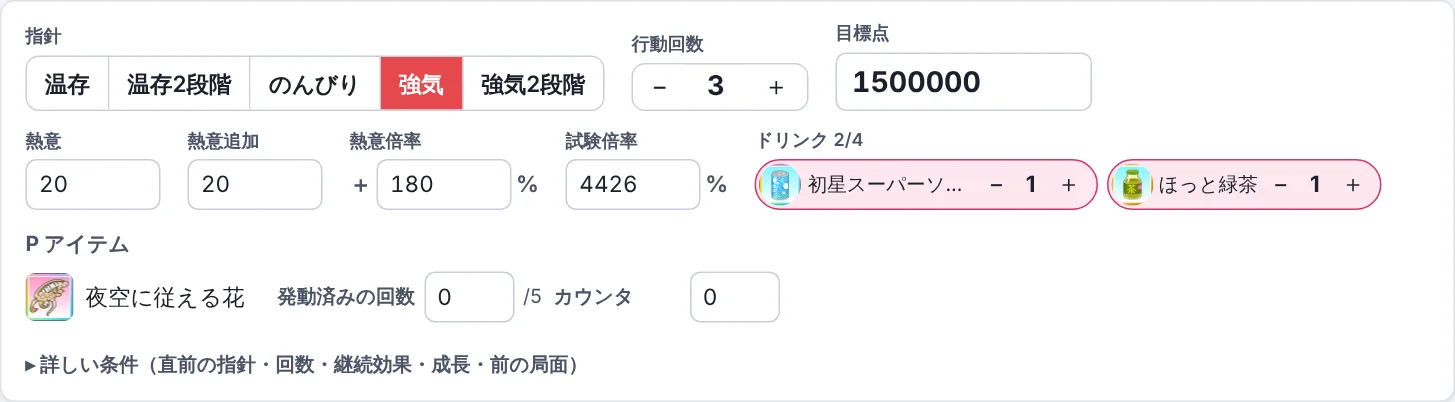
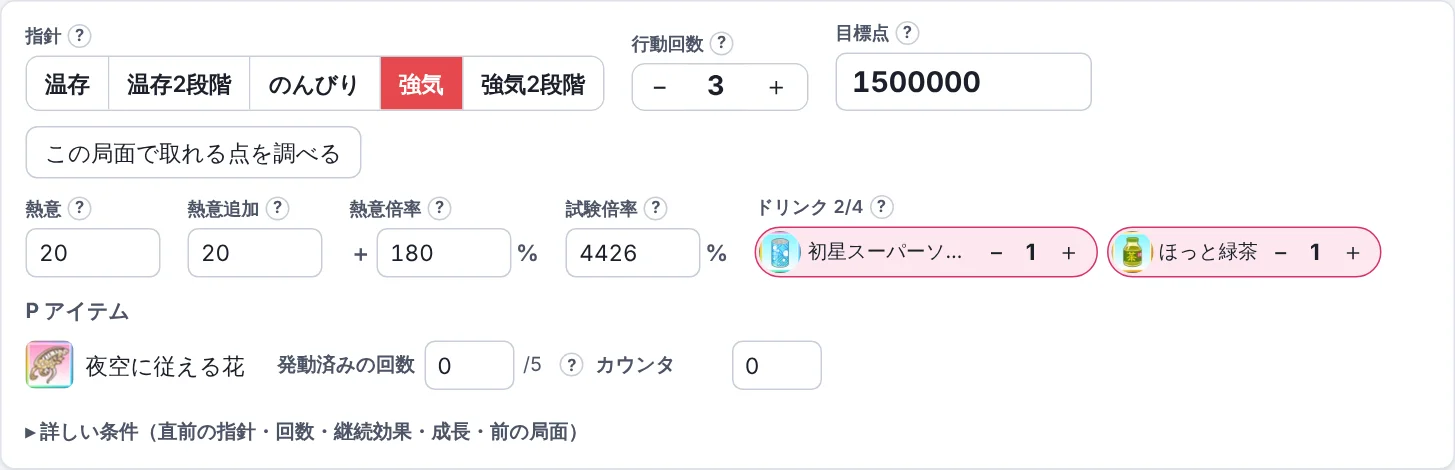
Solitaire Lab 1.6.0

diff --git a/js/turn.js b/js/turn.js
@@ -3,12 +3,16 @@
 import {D, search, itemInputs, staminaTriggered, hifSharedLimit} from './data.js';
 import {firedOf} from './setup.js';
 import {S, save, uid, deck, newPhase, STANCES} from './store.js';
-import {h, pic, cardTile, popover, num, sel, toast} from './ui.js';
+import {h, pic, cardTile, popover, num, sel, toast, qtip} from './ui.js';
 import {ensurePhase, entries, zoneOf, growthOf, extraGrowth, setAssume, ZONES, ZNAME, MAX_DRINKS, growthBulk} from './phase.js';
 import {renderAnswer, isStale} from './answer.js';
 import {renderSteps} from './steps.js';
+import {currentSetup} from './run.js';
+import {startTargetTable, cancelTargetTable} from './solver.js';
 
 let showMore = false;
+// この局面で取れる点（目標点を決める手がかり）。sig＝調べた局面（目標点を除く）の印。局面を変えたら古い値と分かるように
+let TT = {running: false, result: null, error: null, sig: null, started: 0, showCurve: false}, ttRerender = () => {};
 
 export function renderTurn(root, rerender) {
   const dk = deck();
@@ -70,25 +74,38 @@ export function renderTurn(root, rerender) {
 
   // ---- 上部の数値の欄（ゲームの画面の上のほうにあるもの）----
   const setp = k => v => { p[k] = v; touch(); };
-  const stepper = (label, k, {min = 0, max = 99} = {}) => h('div.stepper', {}, h('span.sl', label),
+  const stepper = (label, k, {min = 0, max = 99, tip = ''} = {}) => h('div.stepper', {}, h('span.sl', label, tip && qtip(tip)),
     h('div.sb', {}, h('button', {disabled: p[k] <= min, onclick: () => { p[k] = Math.max(min, (p[k] || 0) - 1); touch(); }}, '−'),
       h('b', p[k] ?? 0), h('button', {disabled: p[k] >= max, onclick: () => { p[k] = Math.min(max, (p[k] || 0) + 1); touch(); }}, '＋')));
   // pct：画面では％で入れ、保存と計算は倍率のまま（例：試験倍率 4426% ⇔ 44.26）
   // plus：ゲームの表示と同じ「＋何%」（増える分）で入れる（例：熱意倍率 ＋180% ⇔ ×2.8）
   const toView = (v, {pct, plus}) => v === null || v === undefined ? '' : plus ? +((v - 1) * 100).toFixed(4) : pct ? +(v * 100).toFixed(4) : v;
   const fromView = (x, {pct, plus}) => x === '' ? null : plus ? 1 + Number(x) / 100 : pct ? Number(x) / 100 : Number(x);
-  const field = (label, k, {step = 1, width = 6, cls = '', pct = false, plus = false} = {}) => h('label.hf', {class: cls}, h('span.sl', label),
+  const field = (label, k, {step = 1, width = 6, cls = '', pct = false, plus = false, tip = ''} = {}) => h('label.hf', {class: cls}, h('span.sl', label, tip && qtip(tip)),
     h('span.unitwrap', {}, plus && h('span.unit', '＋'), h('input', {type: 'number', step, value: toView(p[k], {pct, plus}), style: {width: width + 'em'},
       onchange: e => setp(k)(fromView(e.target.value, {pct, plus}))}), (pct || plus) && h('span.unit', '%')));
   const drinkCount = id => P.drinksHeld.filter(x => x === id).length;
   const hud = h('section.panel.hud', {},
     h('div.hudrow', {},
-      h('div.stances', {}, h('span.sl', '指針'), h('div.seg', {}, STANCES.map(([v, t]) => h('button', {class: 'st ' + v + (p.stance === v ? ' on' : ''), onclick: () => setp('stance')(v)}, t)))),
-      stepper('行動回数', 'cardUses', {min: 1, max: 20}),
-      field('目標点', 'target', {width: 9, cls: 'big'})),
+      h('div.stances', {}, h('span.sl', '指針', qtip('ゲームの画面の、今の指針。温存・強気の「2段階」は、指針の段階が2のとき')), h('div.seg', {}, STANCES.map(([v, t]) => h('button', {class: 'st ' + v + (p.stance === v ? ' on' : ''), onclick: () => setp('stance')(v)}, t)))),
+      stepper('行動回数', 'cardUses', {min: 1, max: 20, tip: 'このターンに、まだ札を使える回数（ゲームの画面のスキルカード使用数）'}),
+      field('目標点', 'target', {width: 9, cls: 'big', tip: 'このターンで届かせたい点数。プレイの途中から作った局面では、それまでに入った点を引いた値'}),
+      h('div.ttbtn', {}, TT.running
+        ? h('button', {onclick: () => { cancelTargetTable(); TT = {...TT, running: false, error: '中止しました'}; rerender(); }}, `取れる点を調べています…（${Math.round((Date.now() - TT.started) / 1000)}秒）中止`)
+        : h('button', {title: 'この局面で、確率100%で届く最大の点・50%で届く最大の点・最大の点を調べます（重い局面で十数秒）', onclick: () => {
+            let s; try { s = currentSetup(); } catch (e) { TT = {...TT, error: '局面を読み込めません：' + e.message}; rerender(); return; }
+            TT = {running: true, result: null, error: null, sig: JSON.stringify(s.setup), started: Date.now(), showCurve: false}; ttRerender = rerender; rerender();
+            const tick = setInterval(() => { if (!TT.running) clearInterval(tick); else ttRerender(); }, 1000);
+            startTargetTable({setup: s.setup, calcSettings: S.calcSettings}, {
+              done: r => { TT = {...TT, running: false, result: r}; ttRerender(); },
+              error: m => { TT = {...TT, running: false, error: m}; ttRerender(); }});
+          }}, 'この局面で取れる点を調べる'))),
+    targetBox(),
     h('div.hudrow', {},
-      field('熱意', 'enthusiasm'), field('熱意追加', 'enthusiasmBonus'), field('熱意倍率', 'enthusiasmBuff', {step: 10, plus: true}), field('試験倍率', 'trial', {step: 1, pct: true}),
-      h('div.drinks', {}, h('span.sl', `ドリンク ${P.drinksHeld.length}/${MAX_DRINKS}`),
+      field('熱意', 'enthusiasm', {tip: 'ゲームの画面の、今の熱意の値'}), field('熱意追加', 'enthusiasmBonus', {tip: 'ゲームの画面の、熱意追加の値'}),
+      field('熱意倍率', 'enthusiasmBuff', {step: 10, plus: true, tip: 'ゲームの表示の「＋何%」をそのまま入れる（P アイテムなどで上がった分も含む）'}),
+      field('試験倍率', 'trial', {step: 1, pct: true, tip: '試験全体の倍率（%）。例：4426'}),
+      h('div.drinks', {}, h('span.sl', `ドリンク ${P.drinksHeld.length}/${MAX_DRINKS}`, qtip(`今持っているドリンク。＋・−で本数を変える（持てるのは${MAX_DRINKS}本まで）`)),
         dk.drinks.length ? h('div.dchips', dk.drinks.map(id => { const d = D.drinks.find(x => x.id === id); const n = drinkCount(id);
           return h('span.dchip', {class: n ? 'on' : '', title: d?.name},
             pic('drinks', id, d?.name || '?', 28), h('span.dn', d?.name),
@@ -98,6 +115,31 @@ export function renderTurn(root, rerender) {
     itemBox(),
     h('button.more', {onclick: () => { showMore = !showMore; rerender(); }}, (showMore ? '▾' : '▸') + ' 詳しい条件（直前の指針・回数・継続効果・成長・前の局面）'),
     showMore && moreBox());
+
+  // この局面で取れる点の結果。数字を押すと、その点を目標点に入れる
+  function targetBox() {
+    if (TT.error && !TT.result) return h('p.warnline', '取れる点を調べられませんでした：' + TT.error);
+    const r = TT.result; if (!r) return null;
+    let sig = null; try { sig = JSON.stringify(currentSetup().setup); } catch {}
+    const old = sig !== TT.sig;
+    if (r.status !== 'complete' && r.sure == null && r.max == null) return h('p.warnline', '時間内に調べ終わりませんでした（' + (r.reason || '') + '）');
+    const more = r.exact ? '' : '以上';
+    const pt = (label, v, tip) => v == null ? h('span.ttv.none', label + '：なし')
+      : h('button.ttv', {title: tip + '。押すと、この点を目標点に入れます', onclick: () => { p.target = v; TT.picked = {v, exact: !!r.exact, label}; touch(); }}, label + ' ', h('b', v.toLocaleString('ja-JP') + '点'), more);
+    const q50 = (r.quantiles || []).find(q => q.p === 0.5);
+    return h('div.ttbox', {class: old ? 'old' : ''},
+      h('div.row', {},
+        pt('確率100%で届く最大', r.sure, '引きが一番悪くても届く点'),
+        pt('50%で届く最大', q50?.score ?? null, '達成率50%以上で届く一番高い点'),
+        pt('最大', r.max, '一番よい引きのときに取れる点'),
+        h('span.hint', `${(r.ms / 1000).toFixed(1)}秒` + (r.exact ? '' : '・計算を絞った範囲での値（本当はこれ以上のことがある）'))),
+      old && h('p.hint', '局面を変えました。この値は前の局面のものです。'),
+      // 押して目標点に入れた値が、計算を絞った範囲の値（厳密でない）なら、その旨を出す。目標点を手で書き換えたら消える
+      TT.picked && !TT.picked.exact && p.target === TT.picked.v && h('p.warnline.ttpicked', `目標点 ${TT.picked.v.toLocaleString('ja-JP')}点（${TT.picked.label}）は、計算を絞った範囲での値です。本当の値はこれより高いことがあります。`),
+      (r.curve || []).length > 1 && h('details.ttcurve', {open: TT.showCurve, ontoggle: e => { TT.showCurve = e.target.open; }}, h('summary', '目標点ごとの、届く確率（最大）'),
+        h('table.tbl.narrow', {}, h('thead', h('tr', h('th', '目標点'), h('th', '届く確率'))),
+          h('tbody', r.curve.map((c, i) => { const nx = r.curve[i + 1]; return h('tr', h('td.n', nx ? `${c.score.toLocaleString('ja-JP')}〜${(nx.score - 1).toLocaleString('ja-JP')}` : `${c.score.toLocaleString('ja-JP')}〜`), h('td.n', (Math.round(c.p * 10000) / 100) + '%' + (r.exact ? '' : ' 以上'))); })))));
+  }
 
   // P アイテムの入力欄：デッキの P アイテムのうち、入力の要るもの（発動済みの回数・カウンタ。エンジンの pItemInputs）と、試作・未対応の注記があるものだけ出す
   function itemBox() {
@@ -112,6 +154,7 @@ export function renderTurn(root, rerender) {
       const setFired = (i, v) => { st.fired = slots.map((y, j) => j === i ? Math.max(0, Math.min(y.max, v ?? 0)) : firedOf(st, j, y.max)); delete st.remaining; touch(); };
       return h('div.itemrow', {}, pic('items', id, it?.name || '?', 32), h('span.inm', it?.name),
         slots.map((x, i) => num(slots.length > 1 ? `発動済みの回数（${i + 1}）` : '発動済みの回数', firedOf(st, i, x.max), v => setFired(i, v), {min: 0, max: x.max, width: 4, hint: '/' + x.max})),
+        slots.length ? qtip('ソリティアを始めるまでに、この P アイテムの効果が発動した回数（上限まで発動したら、それ以上は発動しない）') : null,
         hasCounter && num('カウンタ', st.counter, v => { st.counter = v ?? 0; touch(); }, {min: 0, width: 4}),
         inf?.note && h('small.unsup', {title: inf.note}, '試作・未検証'),
         slots.some(x => x.enthusiasmBuffPerUse) && firedOf(st, 0, slots[0].max) > 0 && h('small.hint', `発動した分（＋${Math.round(slots.reduce((a, x, i) => a + (x.enthusiasmBuffPerUse || 0) * firedOf(st, i, x.max), 0) * 100)}%）は、ゲームの熱意倍率の表示に入っています。計算では足しません`),
@@ -175,11 +218,24 @@ export function renderTurn(root, rerender) {
     h('div.row', {}, h('b', P.carry.mid ? 'プレイの途中から作った局面です' : '前のターンの続きから作った局面です'), h('button.mini', {onclick: () => { delete P.carry; touch(); }}, '閉じる')),
     h('ul', {}, P.carry.warns.map(w => h('li.warn', w)), P.carry.notes.map(n => h('li', n))));
 
+  // 置き場：札のある置き場は枠で出し、空の置き場（保留・山札・捨て札・除外）は1行の小さな受け口にまとめる（ドラッグで入れられる）
+  const count = k => all.filter(e => zoneOf(P, e.uid) === k).length;
+  const miniZone = (k, title) => {
+    const box = h('div.zone.mini', {class: k, 'data-zone': k, title: title + 'は空です。札をここへドラッグするか、札を押して「' + title + 'へ」'}, h('b', title), h('span.cnt', '0'));
+    box.addEventListener('dragover', e => { e.preventDefault(); box.classList.add('dragover'); });
+    box.addEventListener('dragleave', () => box.classList.remove('dragover'));
+    box.addEventListener('drop', e => { e.preventDefault(); box.classList.remove('dragover'); const u = e.dataTransfer.getData('text/plain'); if (u) move(u, k); });
+    return box;
+  };
+  const empties = [['held', '保留'], ['deck', '山札'], ['discard', '捨て札'], ['removed', '除外']].filter(([k]) => !count(k));
+  const isEmpty = k => empties.some(x => x[0] === k);
+  const piles = [['discard', '捨て札'], ['removed', '除外']].filter(([k]) => !isEmpty(k));
   const left = h('div.turnleft', {}, carry, hud,
     h('section.panel.board', {},
-      h('div.handrow', {}, zoneBox('hand', '手札', {size: 'large', limit: 5}), zoneBox('held', '保留', {size: 'small', limit: 2})),
-      zoneBox('deck', '山札', {hint: '＝デッキ全体 − ほかの置き場（自動）。札を押して「手札へ」'}),
-      h('div.pilerow', {}, zoneBox('discard', '捨て札'), zoneBox('removed', '除外')),
+      isEmpty('held') ? zoneBox('hand', '手札', {size: 'large', limit: 5}) : h('div.handrow', {}, zoneBox('hand', '手札', {size: 'large', limit: 5}), zoneBox('held', '保留', {size: 'small', limit: 2})),
+      !isEmpty('deck') && zoneBox('deck', '山札', {hint: '＝デッキ全体 − ほかの置き場（自動）。札を押して「手札へ」'}),
+      piles.length ? h('div.pilerow', {class: piles.length === 1 ? 'one' : ''}, piles.map(([k, t]) => zoneBox(k, t))) : null,
+      empties.length ? h('div.emptyzones', {}, h('span.sl', '空の置き場'), empties.map(([k, t]) => miniZone(k, t))) : null,
       addBox,
       h('p.hint', '札を押すと置き場を選べます（キー 1:手札 2:保留 3:捨て札 4:除外 0:山札）。ドラッグでも動かせます。')));
   const right = h('aside.answer', {});

diff --git a/js/answer.js b/js/answer.js
@@ -151,20 +151,14 @@ function resultView(R, rerender, {checkList} = {}) {
       h('p.hint', '引いた札が決まったら「ここから局面を作る」で計算し直すと、最善の手が分かることがあります。「詳しい条件」でドリンクの上限を入れると、計算が軽くなります。'))); }
     else add(h('div.budget', {},
       b && b.pNum === 0 ? h('p.warnline', 'この予算の中では、目標点に届く手順がまだ見つかっていません（届かないと決まったわけではありません）。下のボタンで見つかることがあります。')
-        : h('p.hint', '時間内に見つけた答えです。もっと良い答えがあるかもしれません。'),
+        : h('p.hint', '時間内に見つけた答えです。もっと良い答えがあるかもしれません（計算の時間は「設定 ▾」→「設定」で変えられます）。'),
       resumeOk
         ? h('button.wide', {disabled: !!checkList?.querySelector?.('.err'), onclick: () => resumeRun(addSec)}, `続きから計算する（＋${addSec}秒。ここまでの計算を使う）`)
         : h('button.wide', {disabled: !!checkList?.querySelector?.('.err'), onclick: () => recompute({budgetSec: sec, maxStates: states}, {keep: true})}, `予算を2倍にして計算し直す（${sec}秒・状態 ${fmt(states)}）`),
       !resumeOk && R.resumeReason && h('p.hint', '続きからはできません：' + R.resumeReason),
-      R.resumedSec ? h('p.hint', `ここまでの計算：${R.budgetSec}秒（うち続きから ${R.resumedSec}秒）`) : null,
-      h('p.hint', 'いつもの予算は「設定」で変えられます。')));
+      R.resumedSec ? h('p.hint', `ここまでの計算：${R.budgetSec}秒（うち続きから ${R.resumedSec}秒）`) : null));
   }
 
-  // 同じ評価の手順（短く）
-  const se = R.sameEval;
-  if (se && (se.root > 1 || se.altNodes > 0)) add(h('div.same', {},
-    se.root > 1 && h('div', `今の局面で、同じ評価の手が ${se.root} 通りあります。`),
-    se.altNodes > 0 && h('div', `同じ評価の別の手順があります（${se.altNodes} か所）。` + (R.extras?.length ? '' : '自然さで選ぶ場合は、設定で自然さにチェックを入れてください。'))));
 
   // 詳しく
   if (R.tree) add(h('button.wide.stepsbtn', {onclick: () => { S.ui.steps = !S.ui.steps; save(); rerender(); if (S.ui.steps) setTimeout(() => document.getElementById('steps')?.scrollIntoView({behavior: 'smooth'}), 50); }},
@@ -196,7 +190,12 @@ function details(R, kind, stName, stCls) {
   const b = R.best, T = R.table, n = R.natural;
   const rows = [...(T?.rows || []).map(r => ({...r, cur: R.criterion !== 'max' && r.alpha === R.criterion + '%'})),
     ...(R.criterion === 'max' && b ? [{alpha: '届く最大', best: b, next: R.next, cur: true}] : [])];
+  const se = R.sameEval;
   return h('div.details', {},
+    // 同じ評価の手順（前は答えの欄に出していた。1.6.0 から「詳しく」に）
+    se && (se.root > 1 || se.altNodes > 0) && h('div.same', {},
+      se.root > 1 && h('div', `今の局面で、同じ評価の手が ${se.root} 通りあります。`),
+      se.altNodes > 0 && h('div', `同じ評価の別の手順があります（${se.altNodes} か所）。` + (R.extras?.length ? '' : '自然さで選ぶ場合は、設定で自然さにチェックを入れてください。'))),
     h('h3', '達成率ごとの比較'),
     h('table.tbl', {}, h('thead', h('tr', ['基準', '達成率', 'ドリンク', '操作', '次の手'].map(t => h('th', t)))),
       h('tbody', rows.map(r => h('tr', {class: r.cur ? 'cur' : ''}, h('td', r.alpha),

diff --git a/manual/index.html b/manual/index.html
@@ -51,7 +51,7 @@
 <section class="slide cover">
   <h1>Solitaire Lab 詳細マニュアル</h1>
   <div class="sub">学園アイドルマスターの「ソリティア」で、<br>どの順番で札を使えば目標点に届きやすいかを教えてくれるツールです。</div>
-  <div class="ver">版 1.5.2 ・ ← → キー、または画面の左右を押してページをめくります</div>
+  <div class="ver">版 1.6.0 ・ ← → キー、または画面の左右を押してページをめくります</div>
 </section>
 
 <section class="slide">
@@ -157,7 +157,7 @@
     <ol>
       <li>デッキの札は、最初はすべて「山札」に入っています。</li>
       <li>札を押し、移動先（手札・保留・捨て札・除外）を選びます。ドラッグで動かすこともできます。</li>
-      <li>山札の枚数は自動で計算されます。</li>
+      <li>山札の枚数は自動で計算されます。札のない置き場（保留・捨て札・除外など）は、下の「空の置き場」に小さくまとまります。そこへドラッグすると入れられます。</li>
     </ol>
     <div class="tip">ヒント：キーボードでも動かせます。<kbd>1</kbd> 手札 <kbd>2</kbd> 保留 <kbd>3</kbd> 捨て札 <kbd>4</kbd> 除外 <kbd>0</kbd> 山札</div>
     <div class="tip">ヒント：札のメニューで、札の成長（スコアの上がり方）も入力できます。デッキにない札（眠気など）は「＋ デッキにない札を足す」から追加します。</div>
@@ -167,6 +167,8 @@
 <section class="slide">
   <h2><span class="no">8</span>その他の条件を入力する</h2>
   <div class="body"><div class="txt">
+    <p>入力の欄の横の「<b>?</b>」にマウスを乗せると、何を入れるかが表示されます。</p>
+    <p>目標点に迷ったら「<b>この局面で取れる点を調べる</b>」を押します。確率100%で届く最大の点・50%で届く最大の点・最大の点が出て、数字を押すとその点が目標点に入ります。</p>
     <p>デッキの P アイテムのうち、入力が必要なもの（発動済みの回数・カウンタ）は、熱意などの下に欄が出ます。ゲームの画面と見比べて入れてください（熱意倍率の欄には、発動した分も含めたゲームの表示の値を入れます）。</p>
     <p>「▸ 詳しい条件」を押すと、次の項目が表示されます。必要なときだけ入力してください。</p>
     <ul>

diff --git a/js/worker.js b/js/worker.js
@@ -20,6 +20,7 @@ import * as S from '../engine/talos/settings.mjs';
 import * as Q from '../engine/src/rational.mjs';
 import * as V from '../engine/src/policy-eval.mjs';
 import * as I from '../engine/talos/inspect.mjs';
+import * as ES from '../engine/talos/estimate.mjs';
 
 // エンジンの形の確かめ（足りない関数があれば、計算せずに知らせる）
 const NEED = [[T, 'tecnaiModel'], [T, 'solveTomahawk'], [A, 'solveAegis'], [S, 'loadDataWithSettings'], [S, 'defaultSettings'], [Q, 'R'], [Q, 'parse'], [Q, 'toNum'], [Q, 'str'], [V, 'evalPolicyExact'], [I, 'inspectCards']];
@@ -140,6 +141,19 @@ self.onmessage = e => {
       if (shapeErrors.length) throw Error('エンジンの形が合いません（見つからない関数：' + shapeErrors.join('、') + '）');
       const data = S.loadDataWithSettings(m.csv, m.calcSettings || S.defaultSettings());   // 点検は毎回まっさらなデータで
       post('inspected', {result: I.inspectCards(data, m.ids, m.opts || {})});
+    } catch (err) { post('error', {message: String(err?.message || err)}); }
+    return;
+  }
+  // この局面で取れる点（目標点を決める手がかり）：確率100%で届く最大・50%で届く最大・最大（エンジンの solveTargetTable、層の上限5千＋熱意の見込み）
+  // 受け取る：{type:'targetTable', id, csv, calcSettings, setup} → {type:'targetTable', id, result}
+  if (m.type === 'targetTable') {
+    try {
+      if (typeof T.solveTargetTable !== 'function') throw Error('エンジンの形が合いません（solveTargetTable）');
+      const model = T.tecnaiModel(dataFor(m.csv, m.calcSettings), m.setup, 1);   // 目標点は使わない
+      const t0 = Date.now();
+      const r = T.solveTargetTable(model, {layerCap: 5000, capScore: typeof ES.heatCapScore === 'function' ? ES.heatCapScore(model) : undefined, maxEstMiB: MAX_EST_MIB, quantiles: [0.5], maxMs: m.maxMs || 120000});
+      post('targetTable', {result: {status: r.status, reason: r.reason ?? null, exact: !!r.exact, note: r.note || '', sure: r.sure ?? null, quantiles: r.quantiles || [], max: r.max ?? null,
+        curve: (r.curve || []).slice(0, 400), ms: Date.now() - t0}});
     } catch (err) { post('error', {message: String(err?.message || err)}); }
     return;
   }

diff --git a/js/phase.js b/js/phase.js
@@ -1,5 +1,6 @@
 // 局面の部品（画面は turn.js）：局面の用意、札の置き場、成長の前提、入力の確かめ、成長をまとめて入れる。山札＝デッキ全体−ほかの置き場（自動）
-import {D, checkCalcSettings, unsupported} from './data.js';
+import {D, checkCalcSettings, unsupported, itemInputs} from './data.js';
+import {firedOf} from './setup.js';
 import {S, save, deck, newPhase, defaultParams} from './store.js';
 import {h, num, sel} from './ui.js';
 
@@ -49,6 +50,13 @@ export function validate(dk, P) {
   if (!(p.trial > 0)) err('試験倍率は0%より大きくしてください');
   if (cnt('deck') === 0 && cnt('discard') === 0) info('山札も捨て札も0枚なので、札を引けません');
   for (const id of dk.items) if (/strengthTimes>=4/.test(D.items.find(x => x.id === id)?.text || '') && p.strengthTimes < 4) info(`${D.items.find(x => x.id === id).name}：強気の回数が ${p.strengthTimes} 回なので、まだ発動しません（4回以上で発動）`);
+  // 入力の食い違い：熱意倍率を上げる P アイテム（原点へのチケットなど）が発動済みなのに、熱意倍率がその分より小さい
+  for (const id of dk.items) {
+    const inf = itemInputs(id); if (!inf) continue;
+    const st = P.itemState?.[id] || {};
+    const add = inf.inputs.filter(x => x.key === 'fired').reduce((a, x, i) => a + (x.enthusiasmBuffPerUse || 0) * firedOf(st, i, x.max), 0);
+    if (add > 0 && (p.enthusiasmBuff ?? 1) + 1e-9 < 1 + add) warn(`${inf.name}：発動済みの分だけで熱意倍率が＋${Math.round(add * 100)}% になるはずですが、熱意倍率が＋${Math.round(((p.enthusiasmBuff ?? 1) - 1) * 100)}% です（ゲームの表示の値を入れてください）`);
+  }
   return out;
 }
 

diff --git a/style.css b/style.css
@@ -296,3 +296,20 @@ button.sec:hover:not(:disabled) { background: var(--acc2); }
 .zone.empty .zc { min-height: 0; }
 .zone.empty .drop { padding: 4px; }
 .subtabs button.menu { color: var(--ink); font-weight: 600; border: 1px solid var(--line2); }
+/* 1.6.0：空の置き場は1行の小さな受け口に */
+.emptyzones { display: flex; flex-wrap: wrap; gap: 8px; align-items: center; margin: 2px 0 10px; }
+.zone.mini { min-height: 0; margin: 0; padding: 6px 12px; display: inline-flex; gap: 8px; align-items: center; border-radius: 8px; font-size: 14px; }
+.zone.mini .cnt { color: var(--faint); }
+.pilerow.one { grid-template-columns: 1fr; }
+/* 入力の欄の横の「？」 */
+.qtip { display: inline-flex; align-items: center; justify-content: center; width: 16px; height: 16px; margin-left: 4px; border-radius: 50%; border: 1px solid var(--line2); color: var(--sub); font-size: 11px; font-weight: 700; cursor: help; vertical-align: 1px; }
+.qtip:hover, .qtip:focus { background: var(--acc2); color: var(--acc); border-color: var(--acc); outline: none; }
+/* この局面で取れる点 */
+.ttbtn { align-self: flex-end; }
+.ttbox { margin: 4px 0 8px; padding: 8px 10px; border: 1px solid var(--line); border-radius: 8px; background: var(--bg); }
+.ttbox.old { opacity: .6; }
+.ttbox .row { gap: 8px; align-items: center; flex-wrap: wrap; }
+button.ttv { background: var(--panel); }
+button.ttv b { font-size: 16px; }
+.ttv.none { color: var(--sub); font-size: 14px; padding: 4px 8px; }
+.ttcurve summary { cursor: pointer; font-size: 13px; color: var(--sub); margin-top: 6px; }

diff --git a/js/solver.js b/js/solver.js
@@ -52,3 +52,15 @@ export function turnEnd({setup, target, calcSettings, path}, {done, error}) {
   w.onerror = e => { error('計算のスレッドで問題が起きました：' + (e.message || '読み込みの失敗')); w.terminate(); };
   w.postMessage({type: 'nextTurn', id: 1, csv: D.csv, setup, target, calcSettings, path});
 }
+
+// この局面で取れる点（solveTargetTable）。計算とは別のスレッドで動かす。中止できる
+let tabler = null;
+export function startTargetTable({setup, calcSettings}, {done, error}) {
+  tabler?.terminate();
+  tabler = new Worker(new URL('./worker.js', import.meta.url), {type: 'module'});
+  const end = () => { tabler?.terminate(); tabler = null; };
+  tabler.onmessage = e => { if (e.data.type === 'targetTable') { done(e.data.result); end(); } else if (e.data.type === 'error') { error(e.data.message); end(); } };
+  tabler.onerror = e => { error('計算のスレッドで問題が起きました：' + (e.message || '読み込みの失敗')); end(); };
+  tabler.postMessage({type: 'targetTable', id: 1, csv: D.csv, calcSettings, setup});
+}
+export function cancelTargetTable() { tabler?.terminate(); tabler = null; }

diff --git a/js/run.js b/js/run.js
@@ -34,6 +34,9 @@ const itemsMap = () => new Map(D.items.map(x => [x.id, x]));
 // 局面の setup に使う P アイテムの情報（入力欄と、体力が減ったら発動するか）。デッキの P アイテムだけ
 export const itemsFor = dk => { const m = itemsMap(); for (const id of dk?.items || []) { const x = m.get(id); if (x) m.set(id, {...x, inputs: itemInputs(id)?.inputs || null, stamina: staminaTriggered(id)}); } return m; };
 
+// 今の局面の setup と目標点（この局面で取れる点を調べるときなど）
+export function currentSetup(P = S.phase) { return buildSetup({deck: deck(), phase: P, cards: cardsMap(), items: itemsFor(deck())}); }
+
 // 局面の setup の印（プレイの途中から作った局面を、作った後に直したかを見る）
 export function phaseSig(P) {
   try { const {setup, target} = buildSetup({deck: deck(), phase: P, cards: cardsMap(), items: itemsFor(deck())}); return JSON.stringify([setup, target]); } catch { return null; }

diff --git a/manual/summary.html b/manual/summary.html
@@ -52,7 +52,7 @@
 <section class="slide cover">
   <h1>Solitaire Lab</h1>
   <div class="sub">学園アイドルマスターの「ソリティア」で、<br>どの順番で札を使えば目標点に届きやすいかを教えてくれるツールです。</div>
-  <div class="ver">概要（6ページ） ・ 版 1.5.2 ・ くわしい使い方は「詳細マニュアル」をご覧ください</div>
+  <div class="ver">概要（6ページ） ・ 版 1.6.0 ・ くわしい使い方は「詳細マニュアル」をご覧ください</div>
 </section>
 
 <section class="slide">

diff --git a/js/ui.js b/js/ui.js
@@ -90,3 +90,6 @@ export const sel = (label, value, options, onchange) =>
     options.map(([v, t]) => h('option', {value: v, selected: String(v) === String(value)}, t))));
 
 export const fmt = n => n === null || n === undefined ? '—' : Number(n).toLocaleString('ja-JP');
+
+// 入力の欄の横の「？」：触れる（マウスを乗せる・キーで選ぶ）と、何を入れるかが出る
+export const qtip = text => h('span.qtip', {title: text, tabIndex: 0, 'aria-label': text, role: 'note'}, '?');
